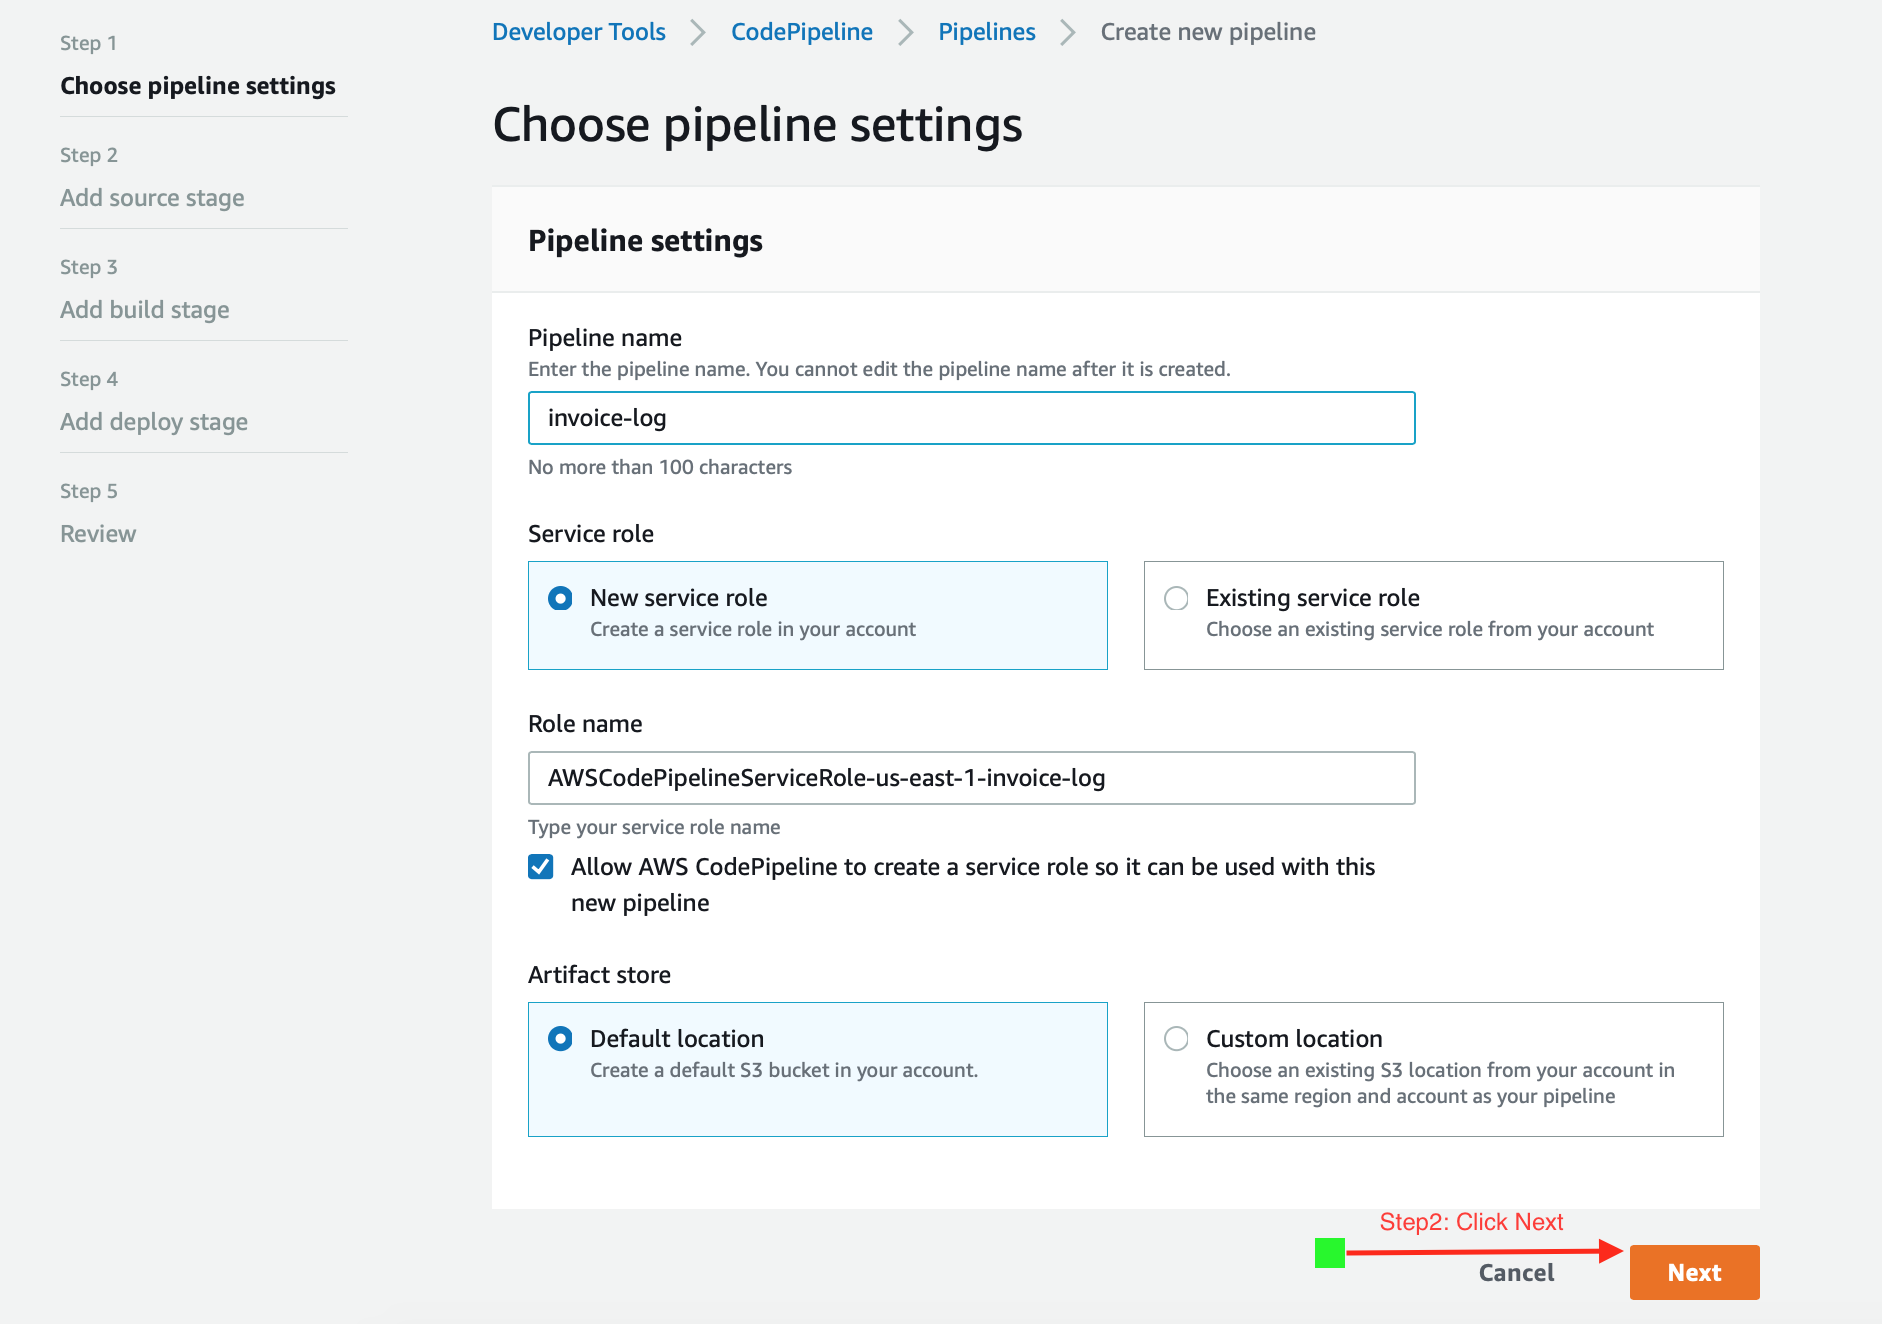
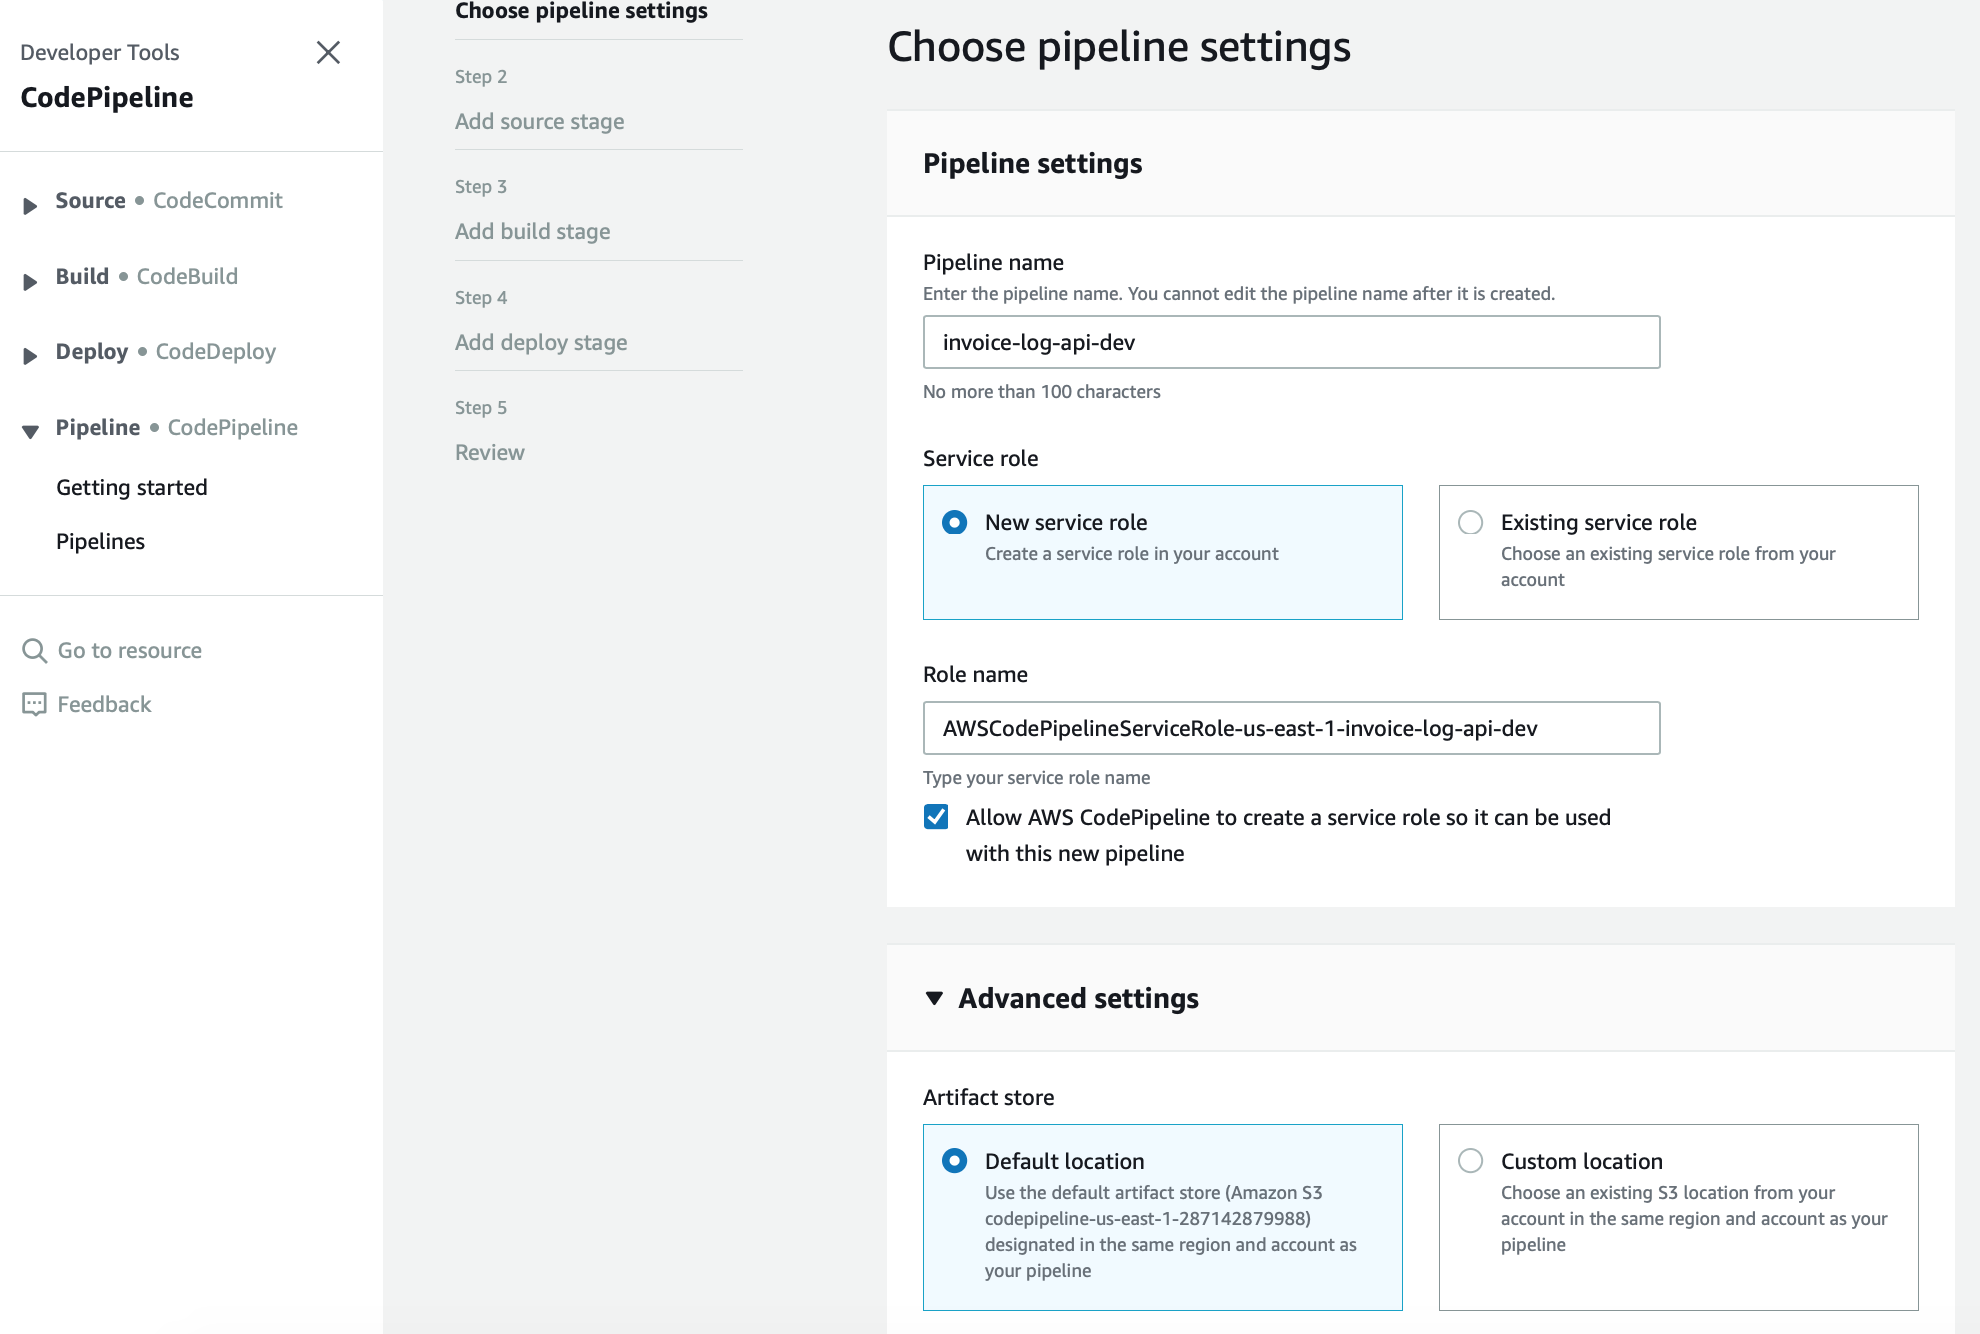
docs: updating code pipeline to deploy backend on cicd..

diff --git a/HowToReviewServiceToConfigureCICDpipeline.md b/HowToReviewServiceToConfigureCICDpipeline.md
@@ -605,9 +605,11 @@ Here you will need to navigate to the [CodePipeline Console](https://console.aws
 
 **Step 2**
 
-Give your new [CodePipeline]() a name to remember in the `Pipeline Name` field. In our use case we will name our [Pipeline]() after the service that we will deploy on *CI/CD*. We will name this [Pipeline](): `invoice-log`.
+Give your new [CodePipeline]() a name to remember in the `Pipeline Name` field. In our use case we will name our [Pipeline]() after the service that we will deploy on *CI/CD*. We will name this [Pipeline](): `invoice-log-api-dev`.
 
-Click on the **New Service Role** selection and just let [AWS Pipeline]() fill out the `Role Name` for you while letting it create the service role for you. [AWS]() has changed the interface and it is a bit buggy right now and it is not letting me select the role we created earlier. Maybe by the time you read this you will be able to just select an **Existing Service Role**. If so, then feel free to submit a `Pull Request` and update this tutorial for yourself and those who come after.
+Click on the **New Service Role** selection and just let [AWS Pipeline]() fill out the `Role Name` for you while letting it create the service role for you. You can also rename the Role name to something that makes more sense to you to better remember which roles you have allocated for the resources on your AWS account. 
+
+Please keep the Role name handy because we will need to find it within the AWS IAM service roles available to attach a few more permissions that this pipeline will need to continuously deploy changes through out pipeline.
 
 Lastly, leave the default selection for the *Artifact Store* and let [Pipeline]() use any bucket it wnts to temporarily store your builds. Keep It Simple, Stupid. **Click Next**!
 
